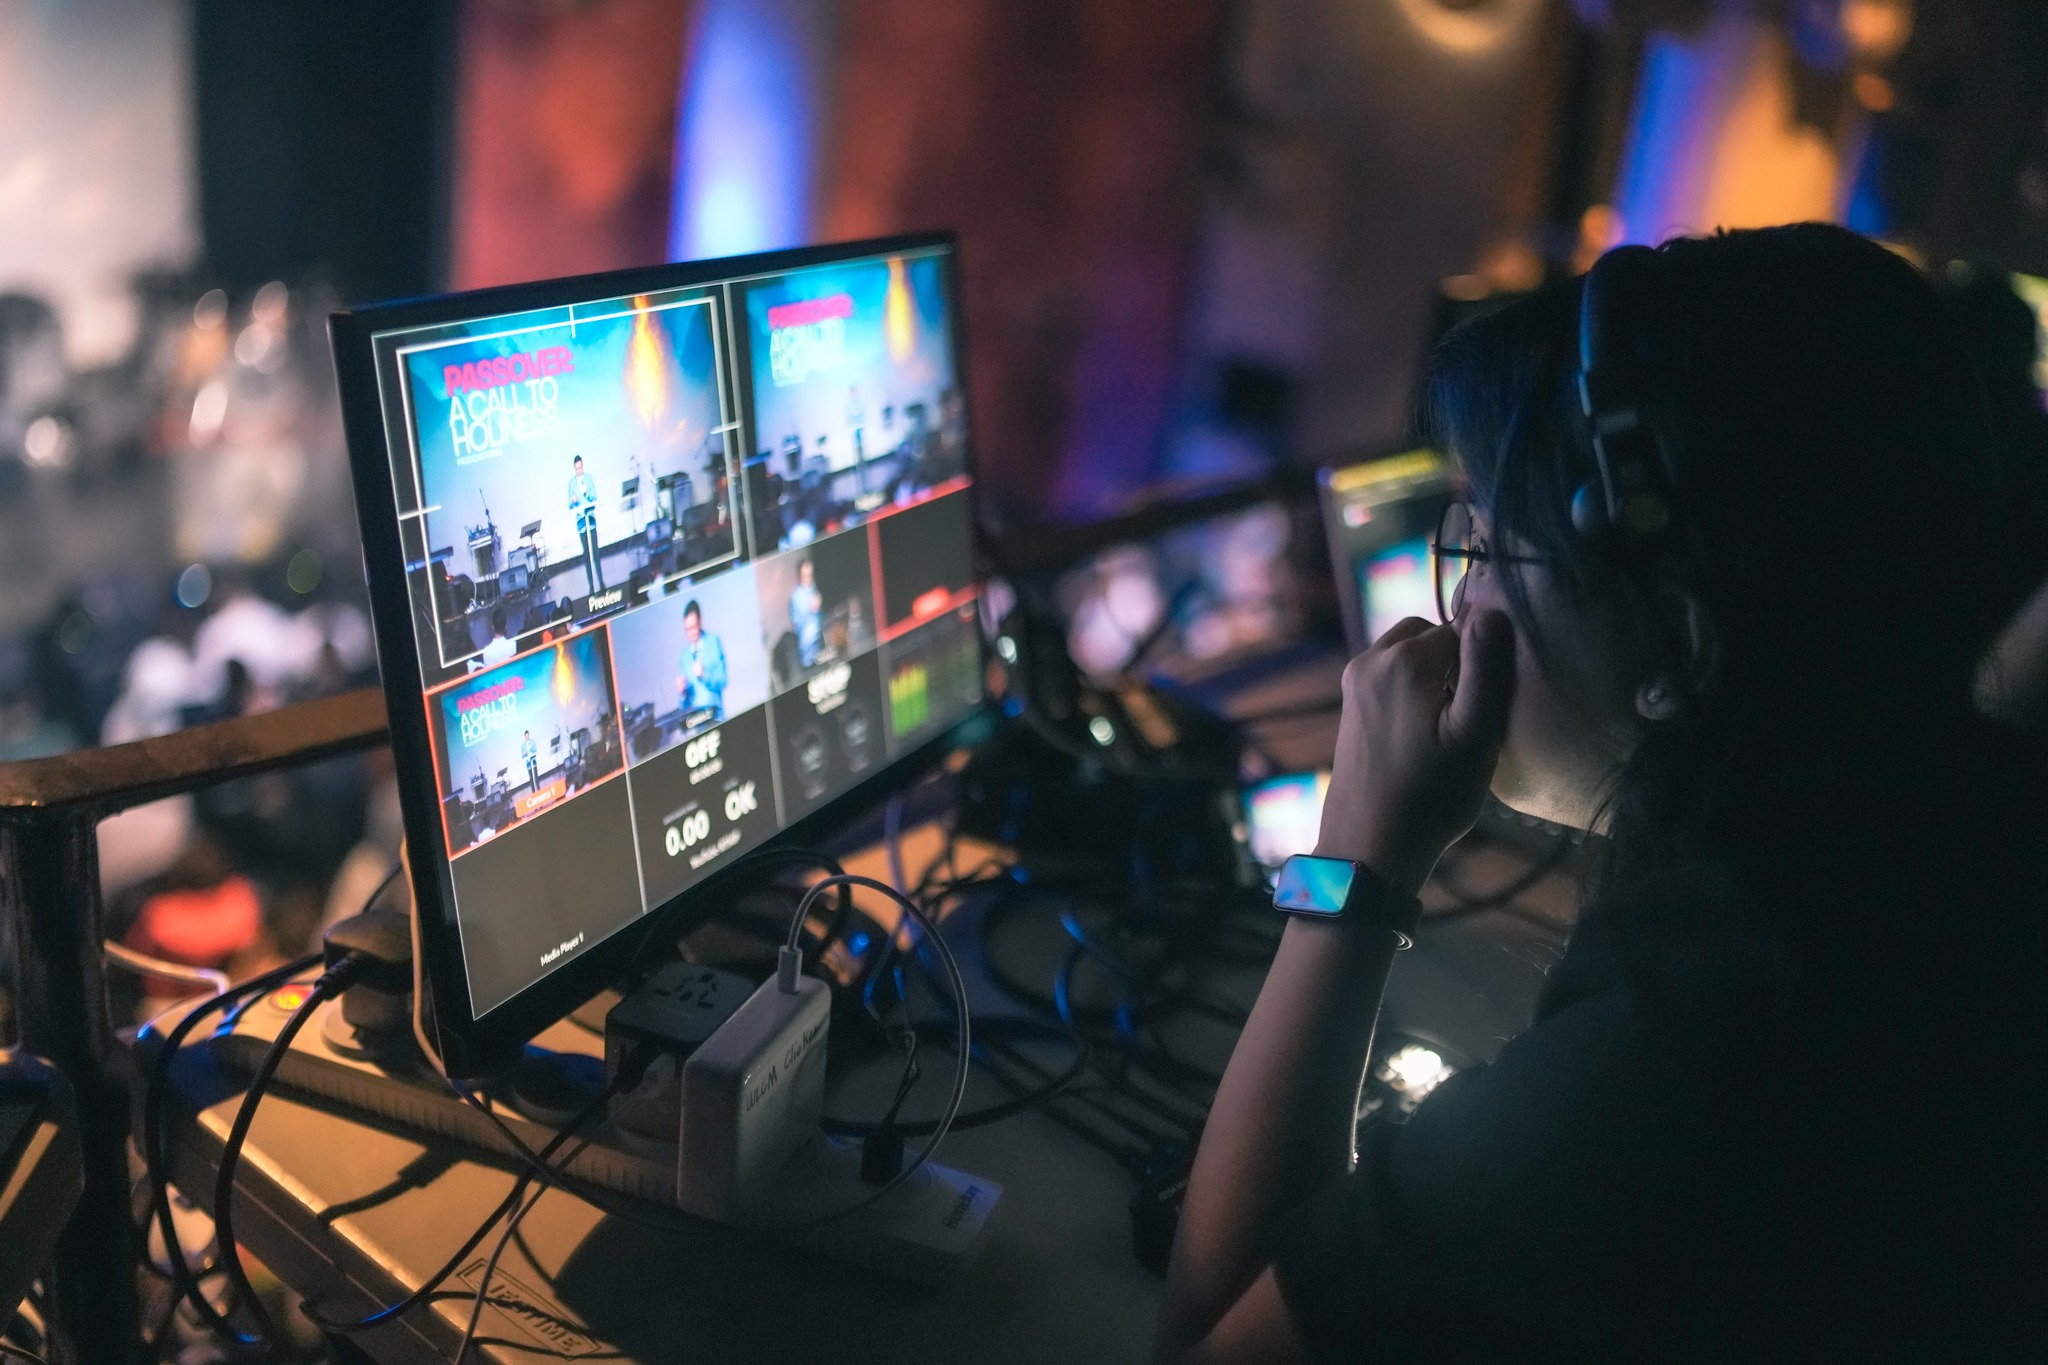
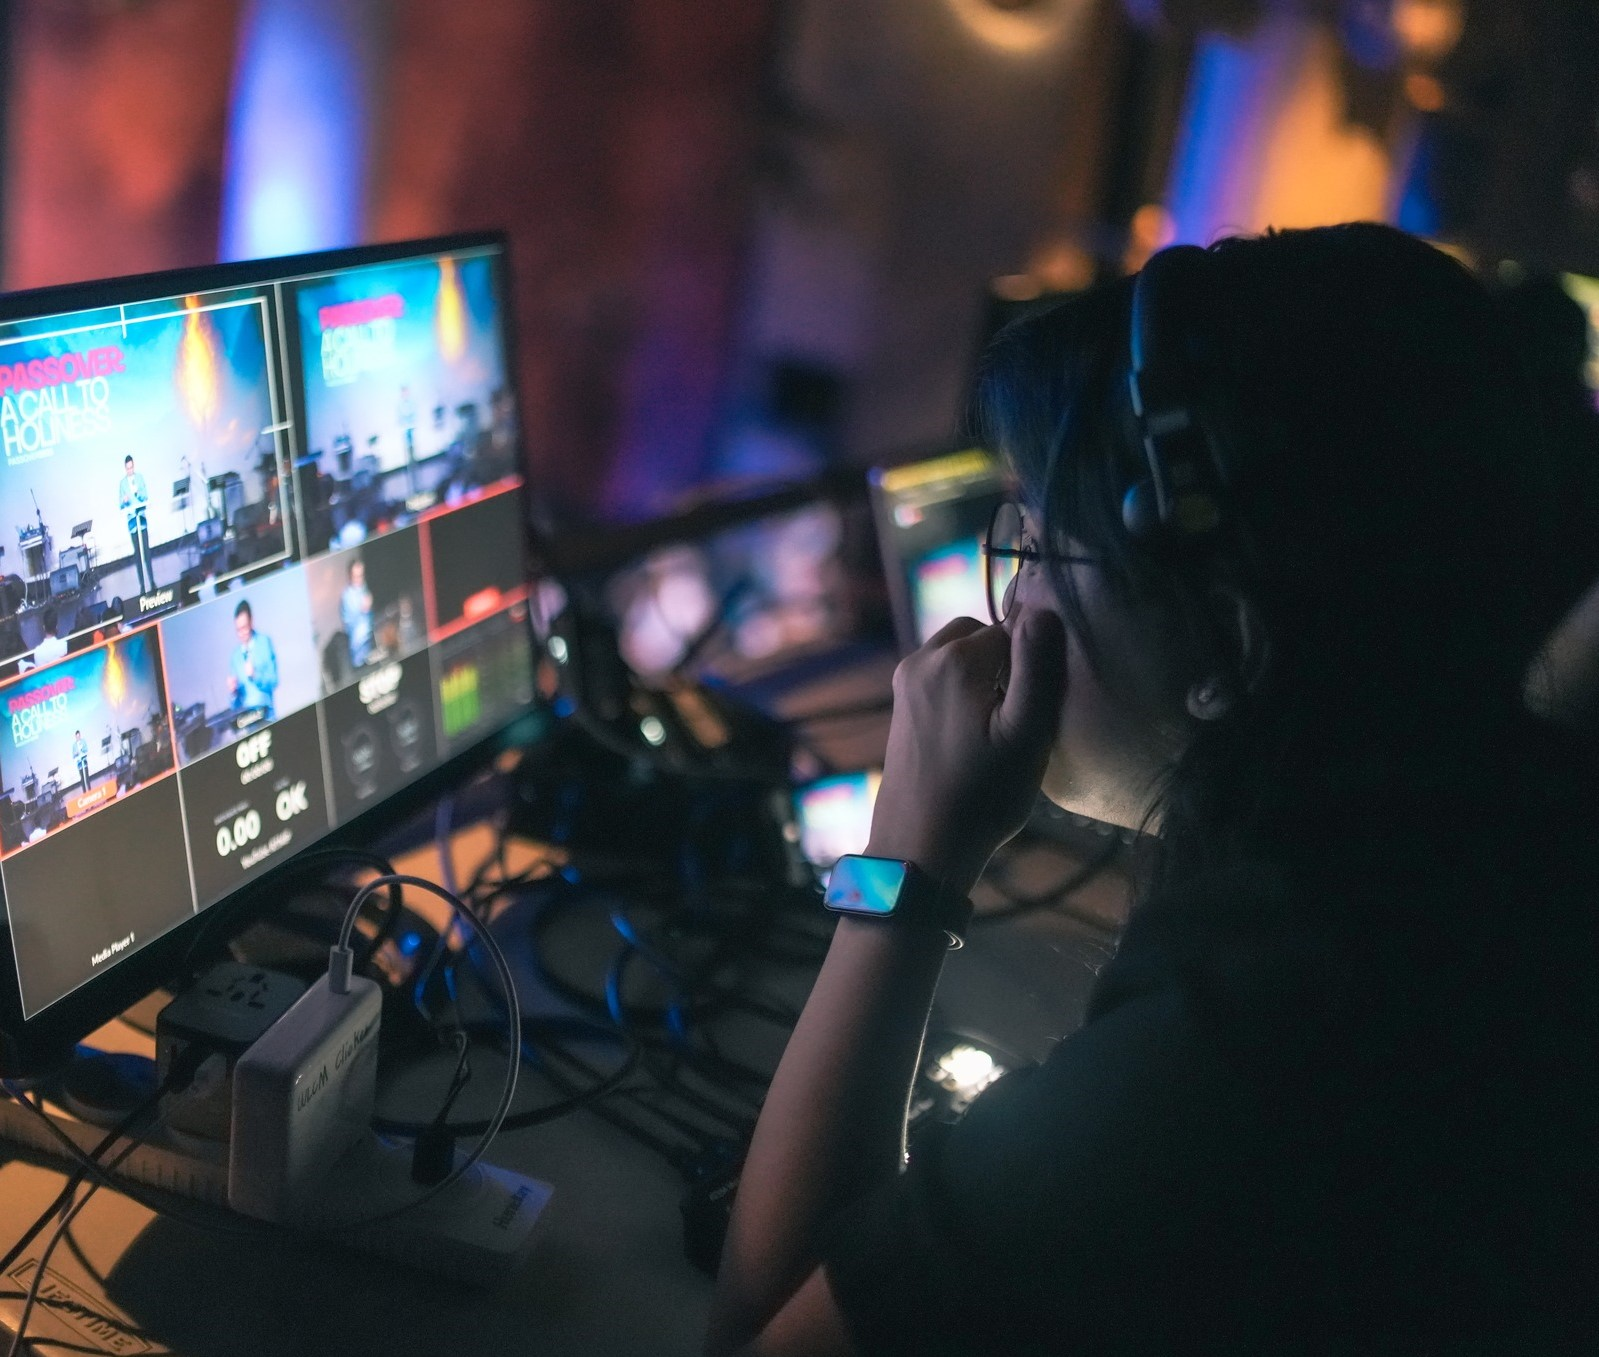
Replace placeholder images with church assets
Add pastor headshots and ministry gallery images. Update LeadershipSection to use local pastor images, reorder team members with Josef as Senior Pastor, and change Nice Pacis to Vanessa Pacis. Remove grayscale hover effect. Reformat Ministries data and replace placeholder images with local gallery assets.

diff --git a/src/features/Experience/Ministries.tsx b/src/features/Experience/Ministries.tsx
@@ -13,17 +13,77 @@ interface Ministry {
 
 const ministriesData: Ministry[] = [
   // Life Ministries
-  { title: "Seasoned", tagline: "Wisdom & Legacy", category: "Life", story: "A community for mature believers to share wisdom, build lasting friendships, and continue growing in faith.", image: "https://images.unsplash.com/photo-1503676260728-1c00da094a0b?q=80&w=800" },
-  { title: "Modern Day Knights", tagline: "Men of Purpose", category: "Life", story: "Equipping men to lead with integrity, faith, and courage in every area of life — home, work, and community.", image: "https://images.unsplash.com/photo-1529333166437-7750a6dd5a70?q=80&w=800" },
-  { title: "At The Well", tagline: "Women of God", category: "Life", story: "A gathering place where women encounter God, build authentic friendships, and discover their God-given identity.", image: "https://images.unsplash.com/photo-1501281668745-f7f57925c3b4?q=80&w=800" },
-  { title: "Pulse Youth", tagline: "Next Generation", category: "Life", story: "Where students find belonging, navigate real-life issues with biblical truth, and discover how faith shapes every part of life.", image: "https://images.unsplash.com/photo-1507692049790-de58293a4699?q=80&w=800" },
+  {
+    title: "Seasoned",
+    tagline: "Wisdom & Legacy",
+    category: "Life",
+    story: "A community for mature believers to share wisdom, build lasting friendships, and continue growing in faith.",
+    image: "https://images.unsplash.com/photo-1503676260728-1c00da094a0b?q=80&w=800",
+  },
+  {
+    title: "Modern Day Knights",
+    tagline: "Men of Purpose",
+    category: "Life",
+    story: "Equipping men to lead with integrity, faith, and courage in every area of life — home, work, and community.",
+    image: "https://images.unsplash.com/photo-1529333166437-7750a6dd5a70?q=80&w=800",
+  },
+  {
+    title: "At The Well",
+    tagline: "Women of God",
+    category: "Life",
+    story: "A gathering place where women encounter God, build authentic friendships, and discover their God-given identity.",
+    image: "/gallery/at the well.jpg",
+  },
+  {
+    title: "Pulse Youth",
+    tagline: "Next Generation",
+    category: "Life",
+    story: "Where students find belonging, navigate real-life issues with biblical truth, and discover how faith shapes every part of life.",
+    image: "/events/pulse-4.jpg",
+  },
   // Service Ministries
-  { title: "Kids Church", tagline: "Start Them Young", category: "Service", story: "A safe, vibrant environment where children discover the love of Jesus through age-appropriate teaching and activities.", image: "https://images.unsplash.com/photo-1485546246426-74dc88dec4d9?q=80&w=800" },
-  { title: "Heavensound Worship", tagline: "Excellence in Praise", category: "Service", story: "Musicians and creatives united in leading the whole church into God's presence through heartfelt, skillful worship.", image: "/events/heavensound-3.jpg" },
-  { title: "Hospitality", tagline: "Welcome & Care", category: "Service", story: "Making every guest feel seen, valued, and at home from the moment they step through the door.", image: "/events/hospitality-2.jpg" },
-  { title: "PTV", tagline: "Media & Production", category: "Service", story: "Serving the church through professional audio, visual, and broadcast production for worship and online reach.", image: "/events/ptv-1.jpg" },
-  { title: "Buhat Brigade", category: "Service", tagline: "Hands That Serve", story: "The backbone of every service — the team that sets up, breaks down, and ensures everything runs smoothly for the glory of God.", image: "https://images.unsplash.com/photo-1506905925346-21bda4d32df4?q=80&w=800" },
-  { title: "Gathering Grounds", category: "Service", tagline: "Community & Connection", story: "Creating spaces where people naturally connect — from coffee corners to community gatherings — so no one feels like a stranger.", image: "https://images.unsplash.com/photo-1483971896012-0e41ce0d380a?q=80&w=800" },
+  {
+    title: "Kids Church",
+    tagline: "Start Them Young",
+    category: "Service",
+    story: "A safe, vibrant environment where children discover the love of Jesus through age-appropriate teaching and activities.",
+    image: "/gallery/kids church.jpg",
+  },
+  {
+    title: "Heavensound Worship",
+    tagline: "Excellence in Praise",
+    category: "Service",
+    story: "Musicians and creatives united in leading the whole church into God's presence through heartfelt, skillful worship.",
+    image: "/gallery/heavensound.jpg",
+  },
+  {
+    title: "Hospitality",
+    tagline: "Welcome & Care",
+    category: "Service",
+    story: "Making every guest feel seen, valued, and at home from the moment they step through the door.",
+    image: "/gallery/hospitality.jpg",
+  },
+  {
+    title: "PTV",
+    tagline: "Media & Production",
+    category: "Service",
+    story: "Serving the church through professional audio, visual, and broadcast production for worship and online reach.",
+    image: "/events/ptv-2.jpg",
+  },
+  {
+    title: "Buhat Brigade",
+    tagline: "Hands That Serve",
+    category: "Service",
+    story: "The backbone of every service — the team that sets up, breaks down, and ensures everything runs smoothly for the glory of God.",
+    image: "/gallery/buhat brigade.jpg",
+  },
+  {
+    title: "Gathering Grounds",
+    tagline: "Community & Connection",
+    category: "Service",
+    story: "Creating spaces where people naturally connect — from coffee corners to community gatherings — so no one feels like a stranger.",
+    image: "/gallery/gathering grounds-2.jpg",
+  },
 ];
 
 const Ministries: React.FC = () => {

diff --git a/src/features/About/LeadershipSection.tsx b/src/features/About/LeadershipSection.tsx
@@ -2,14 +2,14 @@ import { useRef, useState, useEffect } from 'react';
 import { motion } from 'framer-motion';
 
 const nationalTeam = [
-  { name: "Pastor Grace Zabarte", role: "Ministries Department Head", img: "https://images.unsplash.com/photo-1544005313-94ddf0286df2?q=80&w=800" },
-  { name: "Pastor Josef Zabarte", role: "Senior Pastor", img: "https://images.unsplash.com/photo-1560250097-0b93528c311a?q=80&w=800" },
-  { name: "Doc. Angel Concepcion", role: "Management Department Head", img: "https://images.unsplash.com/photo-1573496359142-b8d87734a5a2?q=80&w=800" },
-  { name: "Pastor Jude Orbiso", role: "Missions Department Head", img: "https://images.unsplash.com/photo-1472099645785-5658abf4ff4e?q=80&w=800" },
-  { name: "Nice Pacis", role: "Membership Department Head", img: "https://images.unsplash.com/photo-1580489944761-15a19d654956?q=80&w=800" },
-  { name: "Pastor Yoly Iriman", role: "Maturity Department Head", img: "https://images.unsplash.com/photo-1500648767791-00dcc994a43e?q=80&w=800" },
-  { name: "Pastor Arnold Pacis", role: "Magnification Department Head", img: "https://images.unsplash.com/photo-1507003211169-0a1dd7228f2d?q=80&w=800" },
-];
+  { name: "Pastor Josef Zabarte", role: "Senior Pastor", img: "/pastors/josef.webp" },
+  { name: "Pastor Grace Zabarte", role: "Ministries Department Head", img: "/pastors/grace.webp" },
+  { name: "Pastor Jude Orbiso", role: "Missions Department Head", img: "/pastors/jude.webp" },
+  { name: "Pastor Arnold Pacis", role: "Magnification Department Head", img: "/pastors/arnold.webp" },
+  { name: "Doc. Angel Concepcion", role: "Management Department Head", img: "/pastors/angel.webp" },
+  { name: "Pastor Yoly Iriman", role: "Maturity Department Head", img: "/pastors/yoly.webp" },
+  { name: "Vanessa Pacis", role: "Membership Department Head", img: "/pastors/nice.webp" },
+]
 
 
 export default function LeadershipSection() {
@@ -53,7 +53,7 @@ export default function LeadershipSection() {
                 <img
                   src={leader.img}
                   alt={leader.name}
-                  className="w-full h-full object-cover grayscale group-hover:grayscale-0 transition-all duration-700 pointer-events-none"
+                  className="w-full h-full object-cover pointer-events-none"
                 />
                 <div className="absolute inset-0 bg-gradient-to-t from-midnight-teal/90 via-transparent to-transparent opacity-90" />
                 <div className="absolute bottom-8 left-8">
